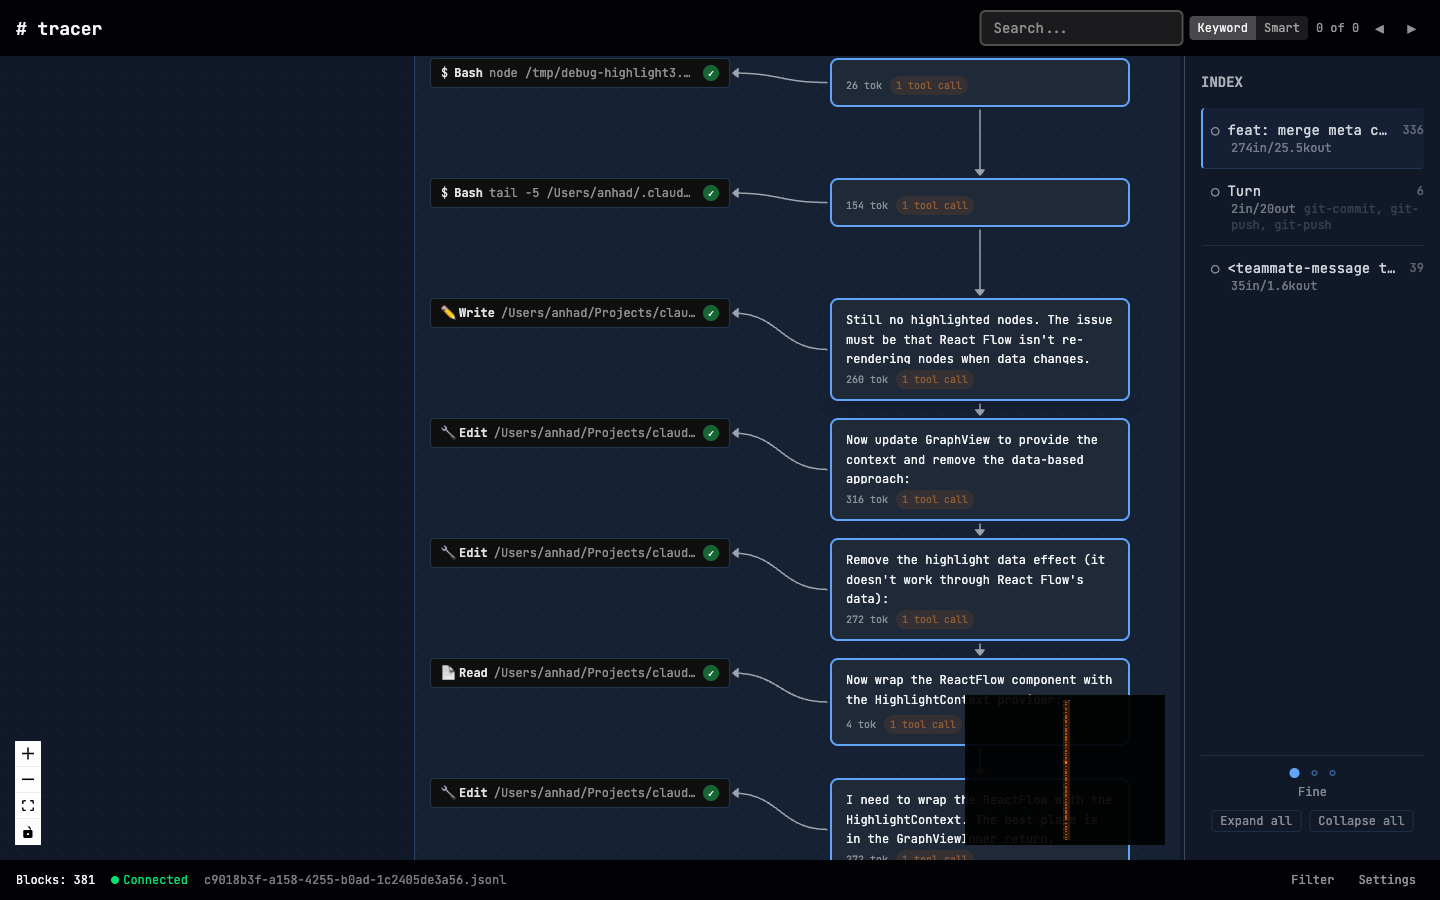
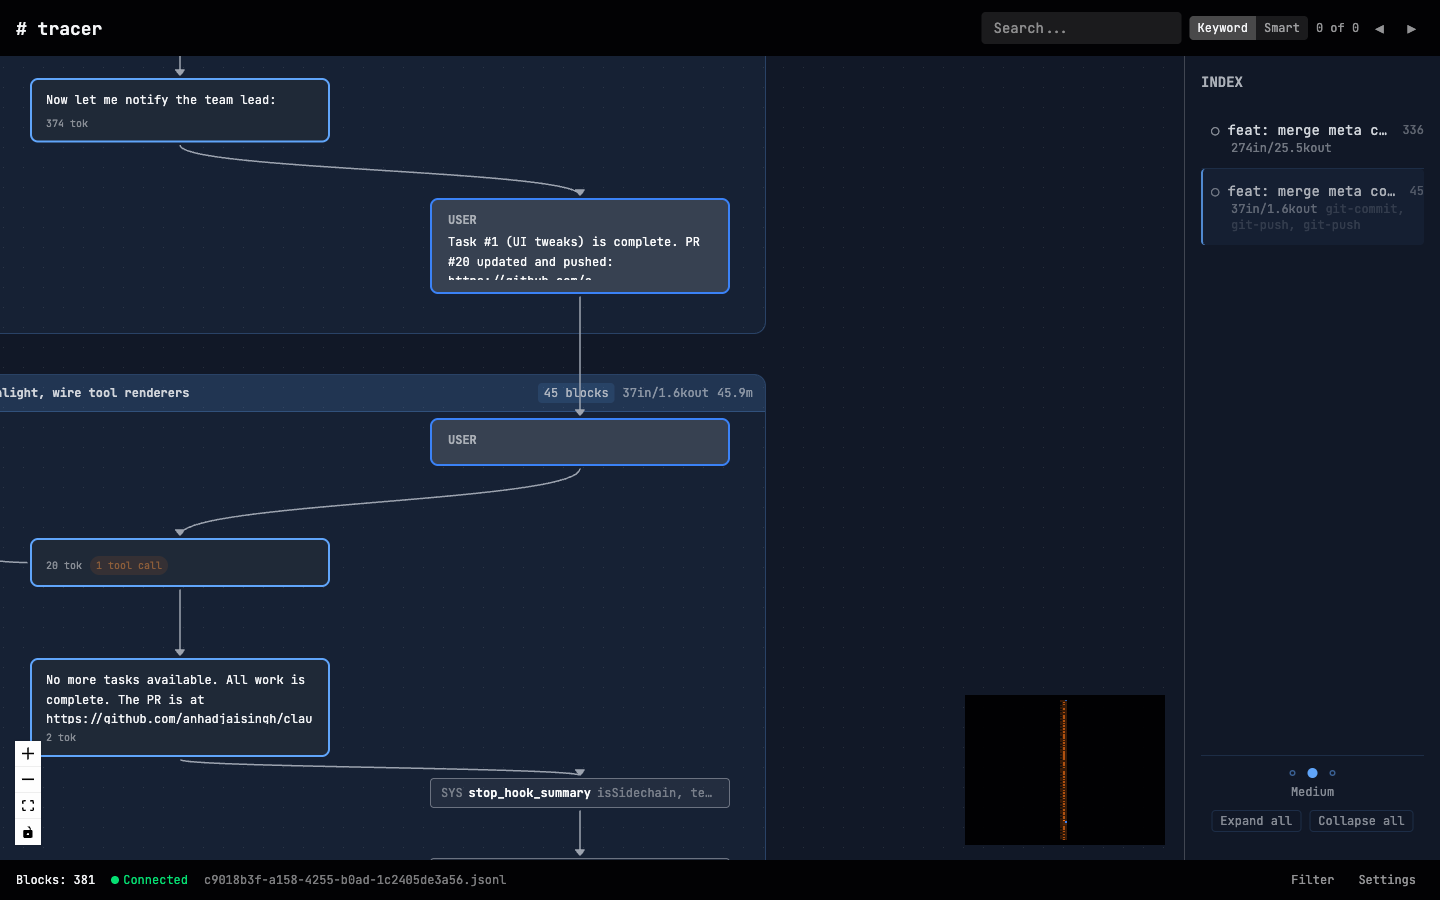
docs: expand README with TOC, granularity, smart search, compaction, token details
Better hero screenshot showing chunk group boundary, token counts, and
TOC active highlight. Added missing sections for granularity levels,
smart/vector search, compaction boundaries, and token analytics.

diff --git a/README.md b/README.md
@@ -31,38 +31,58 @@ ls -lt ~/.claude/projects/*/sessions/*.jsonl | head -20
 
 Columnar layout where horizontal position encodes nesting depth (user messages right, agent center, tools left) and vertical position encodes time. Collapsible chunk groups, minimap, node dragging, zoom/pan.
 
+### Table of contents and granularity
+
+The sidebar shows a table of contents derived from the session's structure. It highlights which chunk you're currently viewing as you scroll. Three granularity levels control how blocks are grouped:
+
+- **Fine** — one chunk per user-agent exchange (turn-level)
+- **Medium** — merges turns into task groups, split at git commits, PRs, time gaps (>5 min), or explicit direction changes ("Now let's...", "Next:", slash commands)
+- **Coarse** — merges tasks into high-level themes, split at large time gaps (>30 min), PR creation, or when groups exceed 6 tasks
+
+Chunk labels are derived from commit messages, PR titles, or the first user message in each group. Each chunk shows its block count, aggregated token usage (in/out), and wall-clock duration.
+
+### Token analytics
+
+Every node shows its token count (input and output). Chunk group headers aggregate tokens across all blocks in the group. The sidebar TOC shows per-chunk token summaries so you can quickly identify where tokens were spent.
+
 ### Search
 
-Keyword search (instant, MiniSearch-powered) and smart mode (hybrid keyword + vector). Results navigate the viewport to matched blocks with visual highlighting.
+**Keyword mode** is instant, powered by MiniSearch with fuzzy matching. **Smart mode** adds hybrid keyword + vector search using local embeddings (computed in-browser via transformers.js) for semantic matching — find blocks by meaning, not just exact words. Results navigate the viewport to each matched block with a yellow highlight border.
 
 ![Search with highlighted result](docs/screenshots/search.png)
 
 ### Block types
 
-Every Claude Code block type gets a dedicated node style: user messages, agent responses, tool calls (Bash, Read, Write, Grep, etc.), MCP calls, sub-agent spawns, slash commands, meta context, team messages, system events, progress indicators, file snapshots, queue operations, and compaction boundaries.
+Every Claude Code block type gets a dedicated node component:
+
+- **User** — human messages (right column, gray bubble)
+- **Agent** — Claude's responses with token counts and tool call badges
+- **Tool** — tool calls (Bash, Read, Write, Grep, Glob, etc.) with input/output and success/error status
+- **MCP** — Model Context Protocol calls to external servers
+- **Sub-agent** — spawned Task agents shown as nested sub-graphs
+- **Command** — slash commands (/commit, /review-pr, etc.)
+- **Meta** — system-injected context (skills, caveats, permissions)
+- **Team message** — inter-agent communication (message, broadcast, shutdown)
+- **System** — internal system events (stop hooks, configuration)
+- **Progress** — progress indicators for long-running operations
+- **File snapshot** — file history snapshots with tracked file metadata
+- **Queue operation** — enqueue/remove operations on the message queue
+- **Compaction boundary** — marks where context compaction occurred, visually distinct so you can see where Claude's memory was compressed
 
 ### Block overlay
 
-Click any node to inspect full content, token counts, and tool call details.
+Click any node to inspect the full content, token counts, tool call details, and raw block data.
 
 ![Block detail overlay](docs/screenshots/block-overlay.png)
 
-### Navigation sidebar
-
-Table of contents with active-chunk highlighting that tracks your viewport position. Three granularity levels: **Fine** (per turn), **Medium** (per task, split at commits/PRs/time gaps), **Coarse** (per theme). Chunk labels derived from commit messages, PR titles, or first user message.
-
 ### Filtering and settings
 
-Toggle block types on/off. Three themes (Dark, Light, Claude). Configurable minimap and node dragging.
+Toggle block types on/off to hide noise (e.g. hide system/progress blocks to focus on the conversation). Three themes (Dark, Light, Claude). Configurable minimap and node dragging.
 
 <p float="left">
   <img src="docs/screenshots/filter-panel.png" width="200" alt="Block type filter" />
   <img src="docs/screenshots/settings-panel.png" width="200" alt="Settings panel" />
 </p>
-
-### Token analytics
-
-Per-block input/output token counts on nodes. Per-chunk aggregated tokens and wall-clock duration in the sidebar.
 
 ## Development
 
